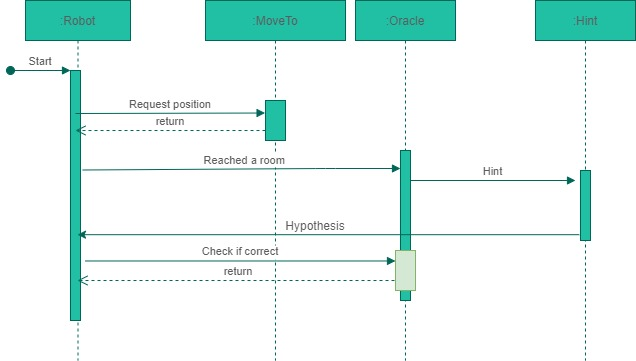
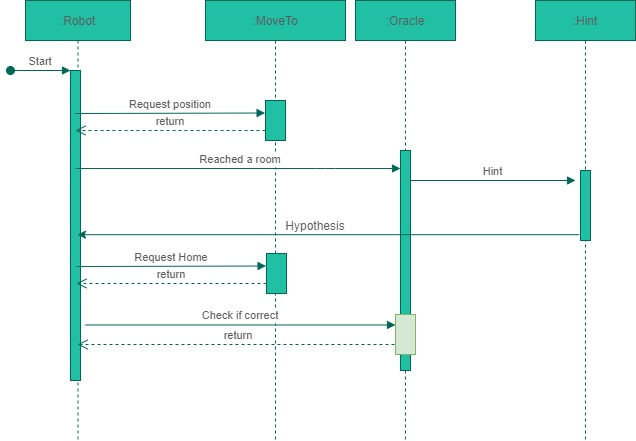
readme

diff --git a/src/robot.cpp b/src/robot.cpp
@@ -91,8 +91,8 @@ int main( int argc, char **argv)
     ros::Publisher reach_pub=n1.advertise<std_msgs::Bool>("/reached", 1000);
     // definition of the Client for the Server on the topic oracle
 	ros::ServiceClient client_or = n2.serviceClient<exprob_assignment1::Oracle>("/oracle");
-	// definition of the subscriber to the topic reached
-	ros:: Subscriber reached= n3.subscribe("hypothesis", 1000, hypothesisCallback);
+	// definition of the subscriber to the topic hypothesis
+	ros:: Subscriber hyp= n3.subscribe("hypothesis", 1000, hypothesisCallback);
 	// defining the seed for the random generation of numbers
 	// this is needed to avoid generating always the same numbers
 	// it takes as input the time of the system as seed

diff --git a/README.md b/README.md
@@ -3,13 +3,15 @@
 This project implements the game of Cluedo played by a robot that has to explore an unknown environment searching for hints. The robot should move in every room to look for hints and when a new hypothesis is ready to be made it should return to the starting location and ask if the hypothesis is correct.
 ## SOFTWARE ARCHITECTURE
 ![architecture of the software](https://github.com/ZoeBetta/exprob_assignment1/blob/main/Architecture.jpg?raw=true)
-
+This architecture is composed of four nodes. Three of them are written in c++ language (robot, oracle and moveto) and the remaining one in python (hint). The communications between the different nodes are  implemented either as ros publisher subscriber, when we do not want to guarantee the synchronization between the nodes, or as ros services and clients when we need the actions to be synchronized. The only node that communicates with the ontology is the hint node that, using the armor server, is able to access and modify the ontology.
 ![state diagram for the program](https://github.com/ZoeBetta/exprob_assignment1/blob/main/RobotStateDiagram.jpg?raw=true)
+At the beginning of the program the robot is in the state move to. If no hypothesis is received the robot moves to a random room looking for hints. From there if a new hint is received the hint is elaborated and the ontology checked for new hypothesis. AFter that, even if no hint is received the robot returns to the move state to either move to a new random room or move home if an hypothesis is retrieved. If the robot received an hypothesis it moves home and when reached it goes to the state asking if the hypothesis is correct; from there if the hypothesis is correct it stops because the goal has been reached, if instead the hypothesis is wrong it goes back to the move to state.
 ![sequence diagram for the program](https://github.com/ZoeBetta/exprob_assignment1/blob/main/SequenceDiagram.jpg?raw=true)
+At the beginnign the robot needs to move to a new random room. To do so it sends a request to the server MoveTo implemented in the moveto node. When the robot node receives the response that it reached the room it publishes true on the topic /reached, said topic is read by the subscriber in the node oracle. The oracle then randomly decides wheater to send a hint or not ( it generates a random number between 1 and 10 and if the number is grater than 3 it sends a hint ) and then randomly decides which hint to send. The hint is then sent with the publisher on the topic /hint, the node hint implements the subscriber for the topic /hint. To be noticed is that there is not the need for the robot to synchronize to the generation of hints, the robot waits a given amount of time ( in this case 1 second ) to simulate the activity of searching for hints in a room and then moves to another room. When a hint is received on the topic /hint the hint.py node elaborates it and checks in the ontology if a new hypothesis can be made, in case no new hypothesis can be made it just starts waiting again for a new hint. If instead an hypothesis can be made it publishes it on the topic /hypotesis that is read by the subscriber implemented in the robot node. The robot node then makes a request to the service implemented in the oracle node to discover if the hypothesis received is the correct one. If the node answers true than the program ends, if instead the hypothesis is wrong the robot keeps searching for new hints.
 
 ## INSTALLATION AND RUNNING PROCEDURE
 In order to run this code it is necessary to have istalled in the same workspace the package armor that allows for the comunication and the handling of the ontology. Once the package is in the workspace it is mandatory to build it using the instruction in the github repository at the following link:
-In particular it is necessary to run the following command ____ in the ___ folder.
+In particular it is necessary to run the following command `./gradlew deployApp`  in the armor folder.
 Also before running the program is good practice to check if the ontology file is present in the package folder and if the path specified in the file hint.py ( that can be found inside the folder scripts ) is correct. The place where to change the path is signalled by two lines of code in all caps that specify that the following variable is the path.
 If there is the need to change the hints that can be received they are defined in the file oracle.cpp in the folder src. The hints are formatted in the following way: each hint is a single string ID/class_type/name. Where class type can be who, what or where. If the total number of hint is changed be sure to change the dimension of the array and the maximum random number to be generated. Both these things are signalled by a line of code in all caps in correspondance to the line to change. 
 Once completed all the previous steps to run the code it is sufficent to run in the workspace directory:
@@ -17,7 +19,7 @@ Once completed all the previous steps to run the code it is sufficent to run in 
 2. roslaunch exprob_assignment1 sim.launch -> to run the actual code 
 
 ## HOW THE CODE RUNS
-
+![diagram of the locations of the rooms](https://github.com/ZoeBetta/exprob_assignment1/blob/main/Locations.jpg?raw=true)
 ## WORKING HYPOTHESIS
 
 ### SYSTEM'S FEATURES
